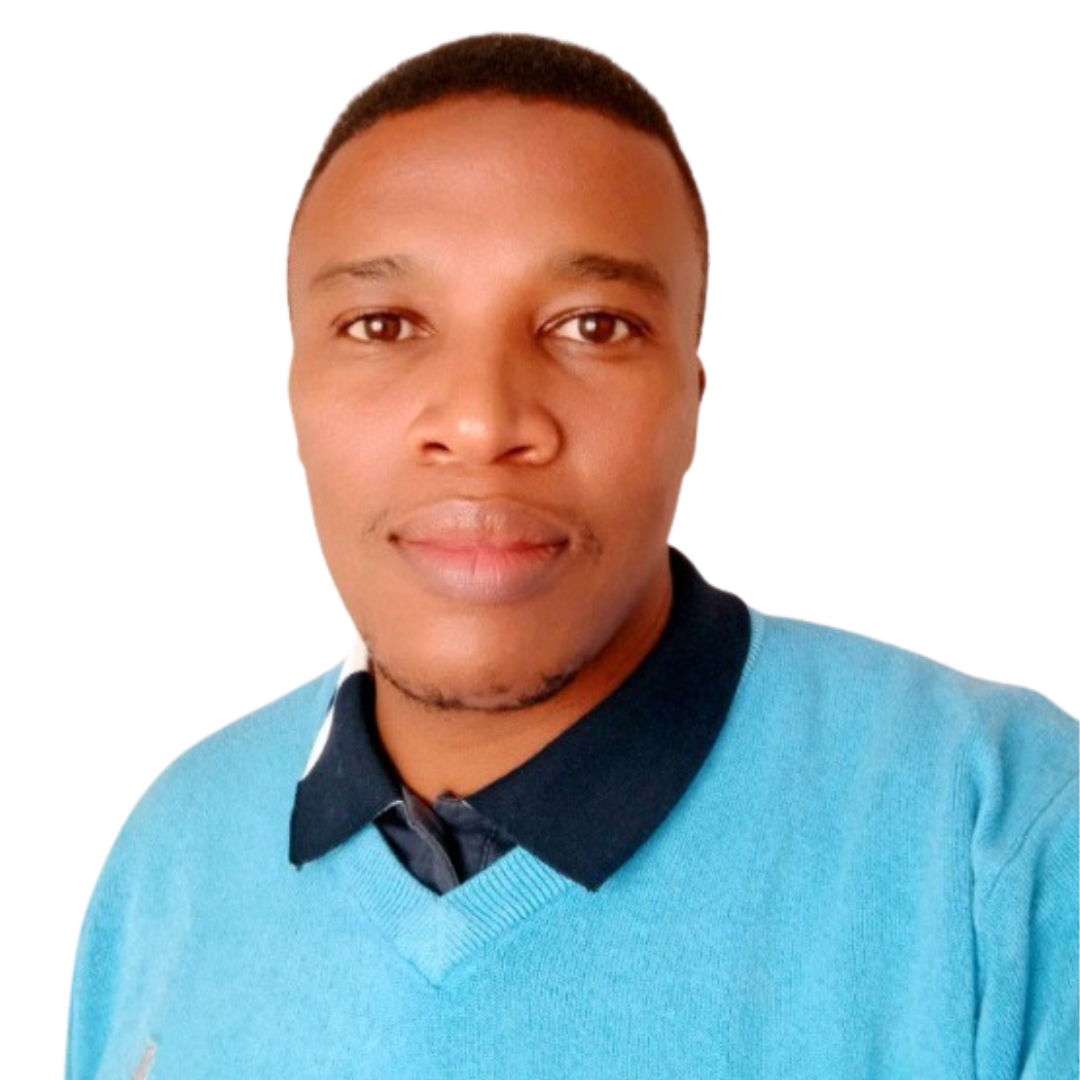
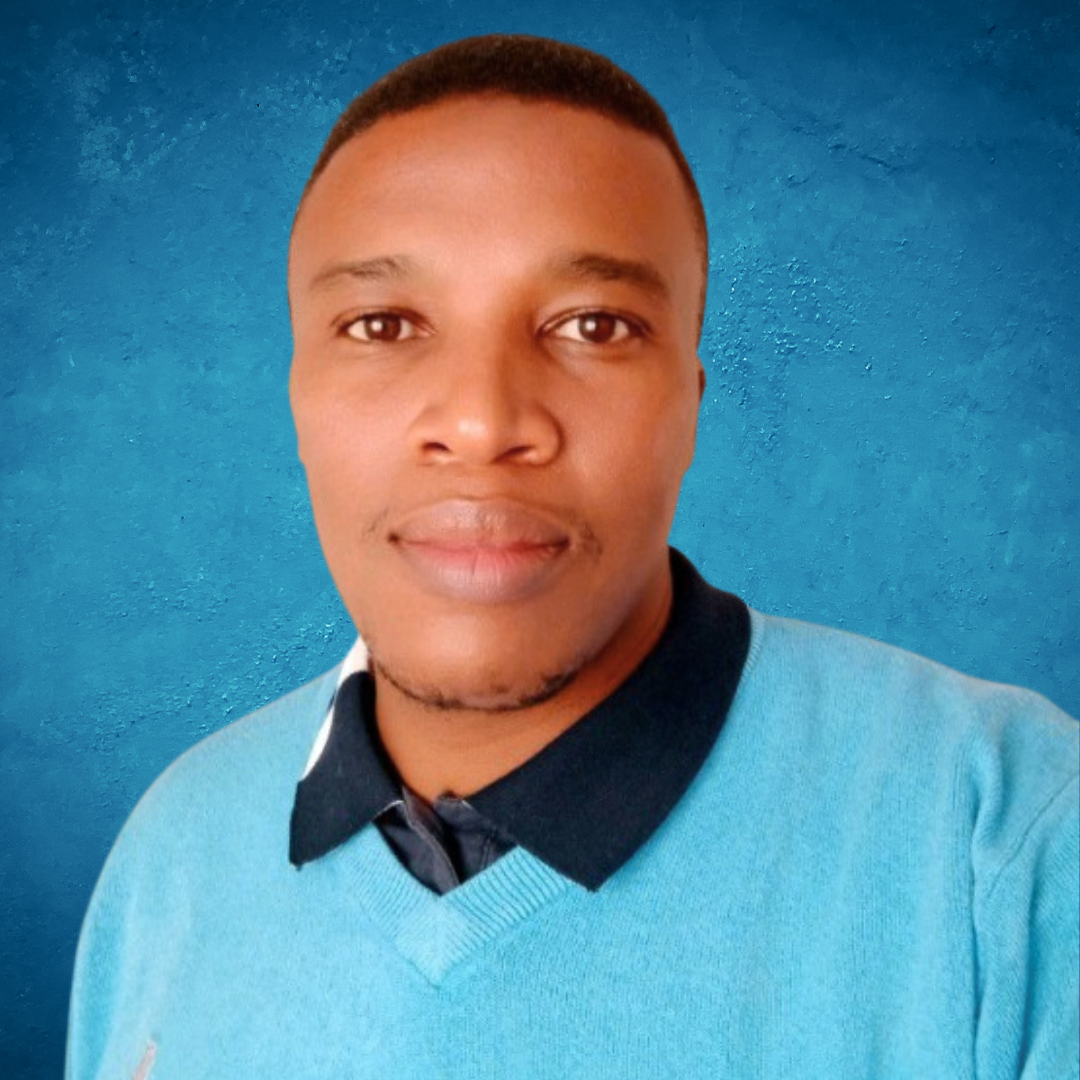
Edit image background color

diff --git a/src/Components/header/header.css b/src/Components/header/header.css
@@ -49,7 +49,7 @@ header {
 .me {
   background: linear-gradient(var(--color-primary), transparent);
   width: 22rem;
-  height: 30rem;
+  /* height: 30rem; */
   position: absolute;
   left: calc(50% - 11rem);
   margin-top: 4rem;
